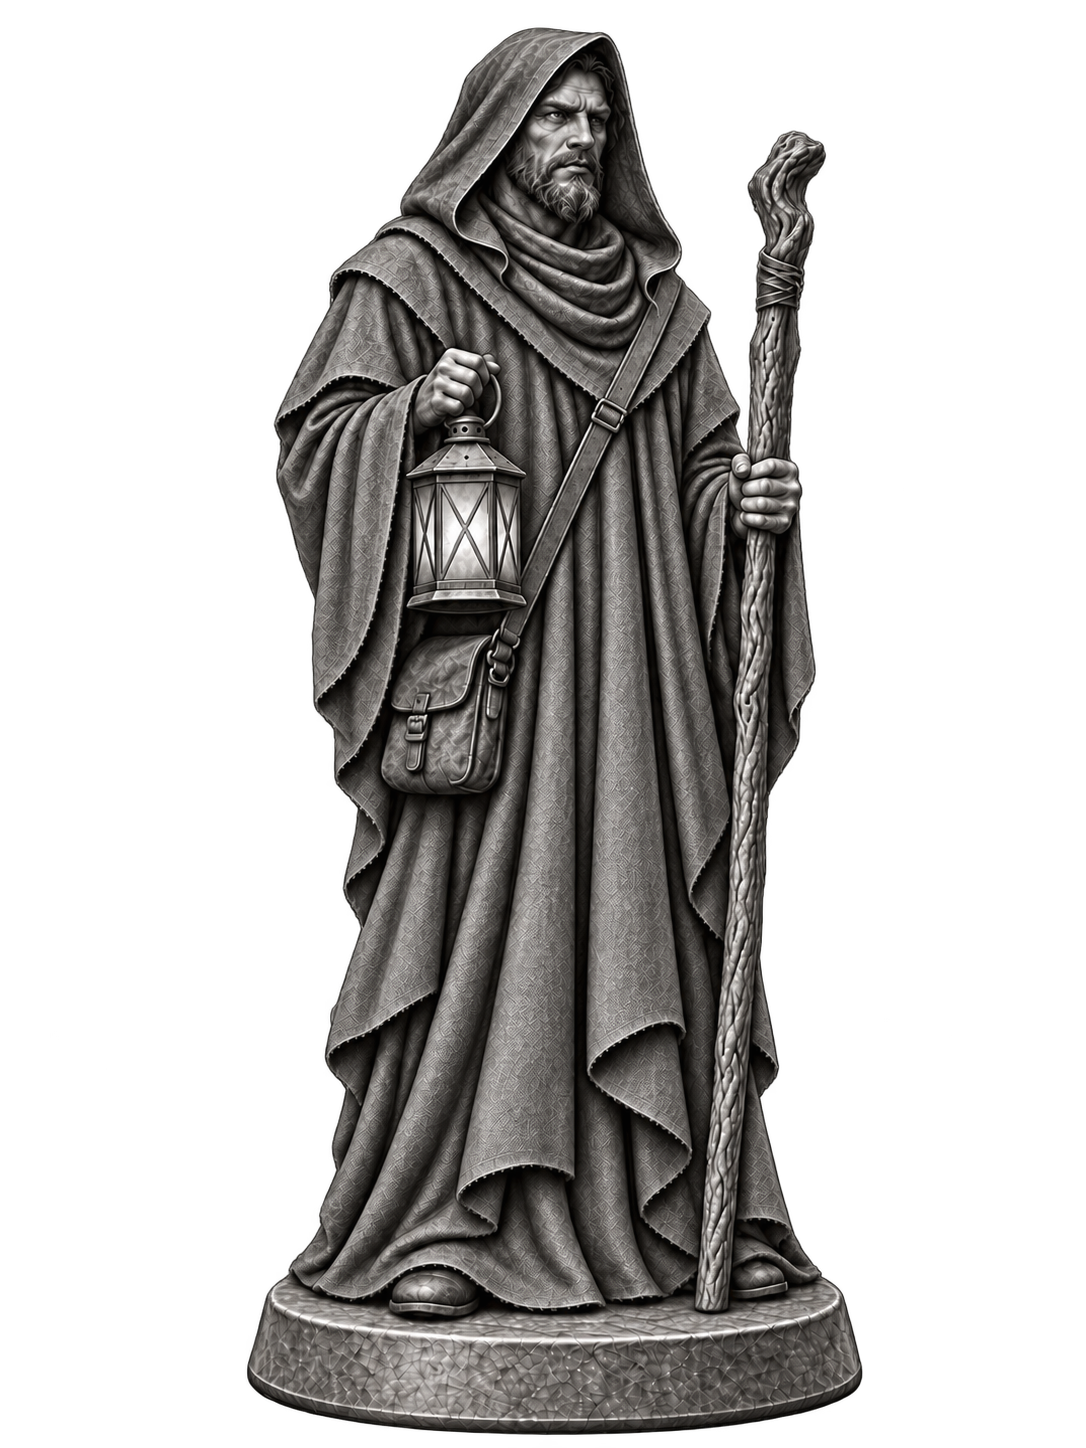
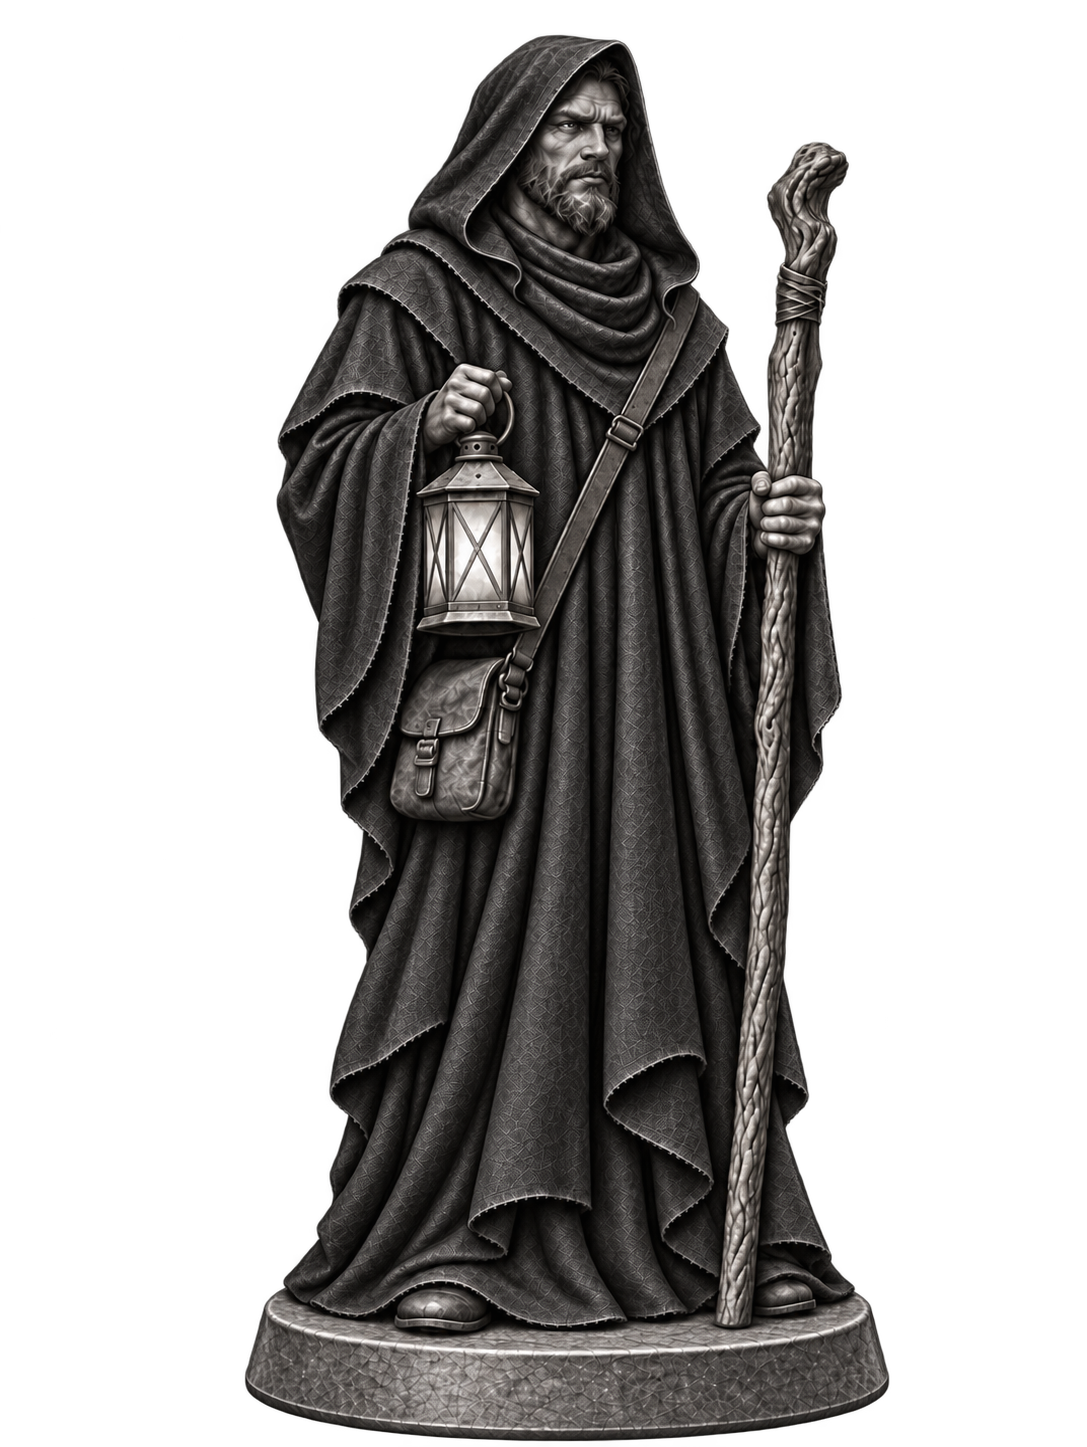
The four figures become a set: new player 2, 3 and 4, levelled on one base
Each figure was generated on its own, so each arrived on its own plinth at its own scale. The four
bases ranged over 24%, and player 4 was on a different canvas from the other three. Four
miniatures whose bases disagree read as four unrelated pictures.

Three of them are regenerated. Player 4 moves to 1086x1448 with a base angle of 0.205, in family
with the others at 0.19-0.21. Player 2 is shorter relative to her base -- 1.90 against 2.51 --
which stops her being the outlier she was. Player 3's robe is recoloured from a pale mid-grey to
the dark pewter the rest of the set wears: mean luminance 54 against player 1's 52, with 64% of
the cloth in deep shadow against his 64%. His plinth is unchanged, so the pale-stone-against-dark-
cloth contrast is now there.

The levelling happens when the page is built, not by editing the files. build_browser.py measures
each plinth off the alpha channel -- the widest ROW of the base, not its bottom edge, since the
base is an ellipse seen from above and its bottom edge is much narrower than its true width --
scales the figures so those agree, and stands them on one floor line. The target is the narrowest
plinth in the set, so it only ever scales down; scaling up would enlarge a source, which is the
one operation here that invents detail nobody drew. On this set that is 643 px, and the four come
out within one pixel of each other, centred, on a shared floor.
[…]

diff --git a/ui/concept/build_browser.py b/ui/concept/build_browser.py
@@ -63,6 +63,15 @@ ROOT = HERE.parents[1]                                  # the repository
 MAX_EDGE = 1200                     # long edge of an embedded image, in pixels
 QUALITY = 86                        # WebP quality; the sources stay untouched at full size
 
+# The figures are drawn one at a time, so each arrives on its own plinth at its own scale. They
+# are meant to be read as one set, and a set whose bases disagree reads as four unrelated
+# pictures. They are levelled HERE rather than by editing the files: the sources stay as the
+# generator made them, and the rule that makes them agree lives in one place where it can be
+# seen and changed.
+FIGURE_KIND = "figure"
+FIGURE_CANVAS = (1086, 1448)        # the canvas the figures are drawn on
+FIGURE_FLOOR = 16                   # plinth bottom to canvas bottom, shared by all of them
+
 # Seat order and the seat-to-portrait cast, mirroring ui/render. Kept as literals so this script
 # runs against a downloads folder with no repo present, and checked against the repo when there
 # is one -- see resolve_portraits().
@@ -156,11 +165,77 @@ SUBJECTS.append({
 })
 
 
-def encode(path: pathlib.Path) -> tuple[str, int, int, int]:
+def plinth(im: Image.Image) -> dict | None:
+    """Where the miniature meets the ground: the widest row of its base.
+
+    Off the alpha channel, not the colour: the base is the lowest thing in the picture and the
+    only part guaranteed to be opaque all the way across. Measured at its WIDEST row rather than
+    at the bottom edge, because the base is an ellipse seen from slightly above and its bottom
+    edge is a good deal narrower than its true width.
+    """
+    mask = im.getchannel("A").point(lambda v: 255 if v > 200 else 0)
+    box = mask.getbbox()
+    if not box:
+        return None
+    _, top, _, below = box
+    bottom = below - 1
+    height = bottom - top + 1
+    best = {"width": 0}
+    for y in range(max(top, bottom - int(height * 0.25)), bottom + 1):
+        row = mask.crop((0, y, mask.width, y + 1)).getbbox()
+        if row and row[2] - row[0] > best["width"]:
+            best = {"width": row[2] - row[0], "left": row[0], "right": row[2], "row": y}
+    if not best["width"]:
+        return None
+    best["bottom"] = bottom
+    return best
+
+
+def level(im: Image.Image, target: float) -> Image.Image:
+    """Scale a figure so its plinth is `target` wide, then stand it on the shared floor line.
+
+    Placed by the PLINTH and not by the picture: the base is the thing being made to agree, and
+    the figure above it is free to be whatever height it is. That is the trade -- one set of
+    bases, four heights -- and it is the right way round, because a miniature is identified by
+    the base it stands on.
+    """
+    here = plinth(im)
+    if not here:
+        return im
+    k = target / here["width"]
+    scaled = im.resize((max(1, round(im.width * k)), max(1, round(im.height * k))), Image.LANCZOS)
+    now = plinth(scaled) or here
+    canvas = Image.new("RGBA", FIGURE_CANVAS, (0, 0, 0, 0))
+    canvas.alpha_composite(scaled, (
+        round(FIGURE_CANVAS[0] / 2 - (now["left"] + now["right"]) / 2),
+        FIGURE_CANVAS[1] - FIGURE_FLOOR - 1 - now["bottom"]))
+    return canvas
+
+
+def figure_target(paths: list[pathlib.Path]) -> float | None:
+    """The narrowest plinth in the set, so levelling only ever scales DOWN.
+
+    Levelling up would mean enlarging one of the sources, which is the one operation here that
+    invents detail that was never drawn.
+    """
+    widths = []
+    for p in paths:
+        if not p.is_file():
+            continue
+        with Image.open(p) as im:
+            found = plinth(im.convert("RGBA"))
+        if found:
+            widths.append(found["width"])
+    return min(widths) if widths else None
+
+
+def encode(path: pathlib.Path, base: float | None = None) -> tuple[str, int, int, int]:
     """One image as a WebP data URI, plus its embedded size and the bytes it costs."""
     im = Image.open(path)
     keep = "RGBA" if (im.mode in ("RGBA", "LA") or "transparency" in im.info) else "RGB"
     im = im.convert(keep)
+    if base:
+        im = level(im, base)
     im.thumbnail((MAX_EDGE, MAX_EDGE), Image.LANCZOS)
     buf = io.BytesIO()
     im.save(buf, "WEBP", quality=QUALITY, method=6)
@@ -211,6 +286,12 @@ def where(subject: dict, spec: dict) -> pathlib.Path:
 
 def collect() -> tuple[list, list, list]:
     """Every declared image: found, reported missing, or absent-but-expected. Nothing is globbed."""
+    # One pass over the figures before anything is encoded: the target is the narrowest plinth in
+    # the set, so it cannot be known from any single image.
+    base = figure_target([where(s, k) for s in SUBJECTS for k in s["kinds"]
+                          if k["kind"] == FIGURE_KIND])
+    if base:
+        print("  levelling the figures to the narrowest plinth in the set: %d px" % base)
     found, missing, absent = [], [], []
     for ch in SUBJECTS:
         panels = []
@@ -234,8 +315,10 @@ def collect() -> tuple[list, list, list]:
                 uri, w, h, size, note = wheel_svg(path)
                 dims = "%g \u00d7 %g units" % (w, h)
             else:
-                uri, w, h, size = encode(path)
-                note, dims = "", "%d \u00d7 %d" % (w, h)
+                lift = base if spec["kind"] == FIGURE_KIND else None
+                uri, w, h, size = encode(path, lift)
+                note = "plinth levelled to %d px" % base if lift else ""
+                dims = "%d \u00d7 %d" % (w, h)
             panels.append({"kind": kind, "title": title, "uri": uri, "w": w, "h": h,
                            "src": str(path), "name": path.name, "bytes": size,
                            "dims": dims, "note": note, "origin": spec.get("origin")})

diff --git a/ui/concept/README.md b/ui/concept/README.md
@@ -43,6 +43,26 @@ complete on the machine that found the image, honest on a fresh clone, an error 
 The test enforces the rule rather than trusting it — anything the manifest marks
 `"committed": false` must live under a path `.gitignore` covers.
 
+## The figures are levelled when the page is built
+
+Each figure was drawn on its own, so each arrived on its own plinth at its own scale — the four
+bases ranged over 24% and one was on a different canvas entirely. Four miniatures whose bases
+disagree read as four unrelated pictures rather than as a set.
+
+`build_browser.py` fixes that at build time rather than by editing the files. It measures each
+figure's plinth from the alpha channel — the widest row of the base, not its bottom edge, because
+the base is an ellipse seen from slightly above and its bottom edge is much narrower than its true
+width — scales every figure so those widths agree, and stands them all on one floor line.
+
+The target is the NARROWEST plinth in the set, so levelling only ever scales down. Scaling up
+would enlarge a source, which is the one operation here that invents detail nobody drew.
+
+Two consequences worth knowing. The figures end up at different heights, which is correct: a
+miniature is identified by the base it stands on, and the figure above it is free to be as tall as
+it is. And the files on disk are still exactly what the generator produced — the rule that makes
+them agree lives in one place in the script, where it can be read and changed, rather than being
+baked into pixels.
+
 ## Two things here that are not files here
 
 The four portraits are production art, read from `ui/assets-gothic/portraits/` through the same
